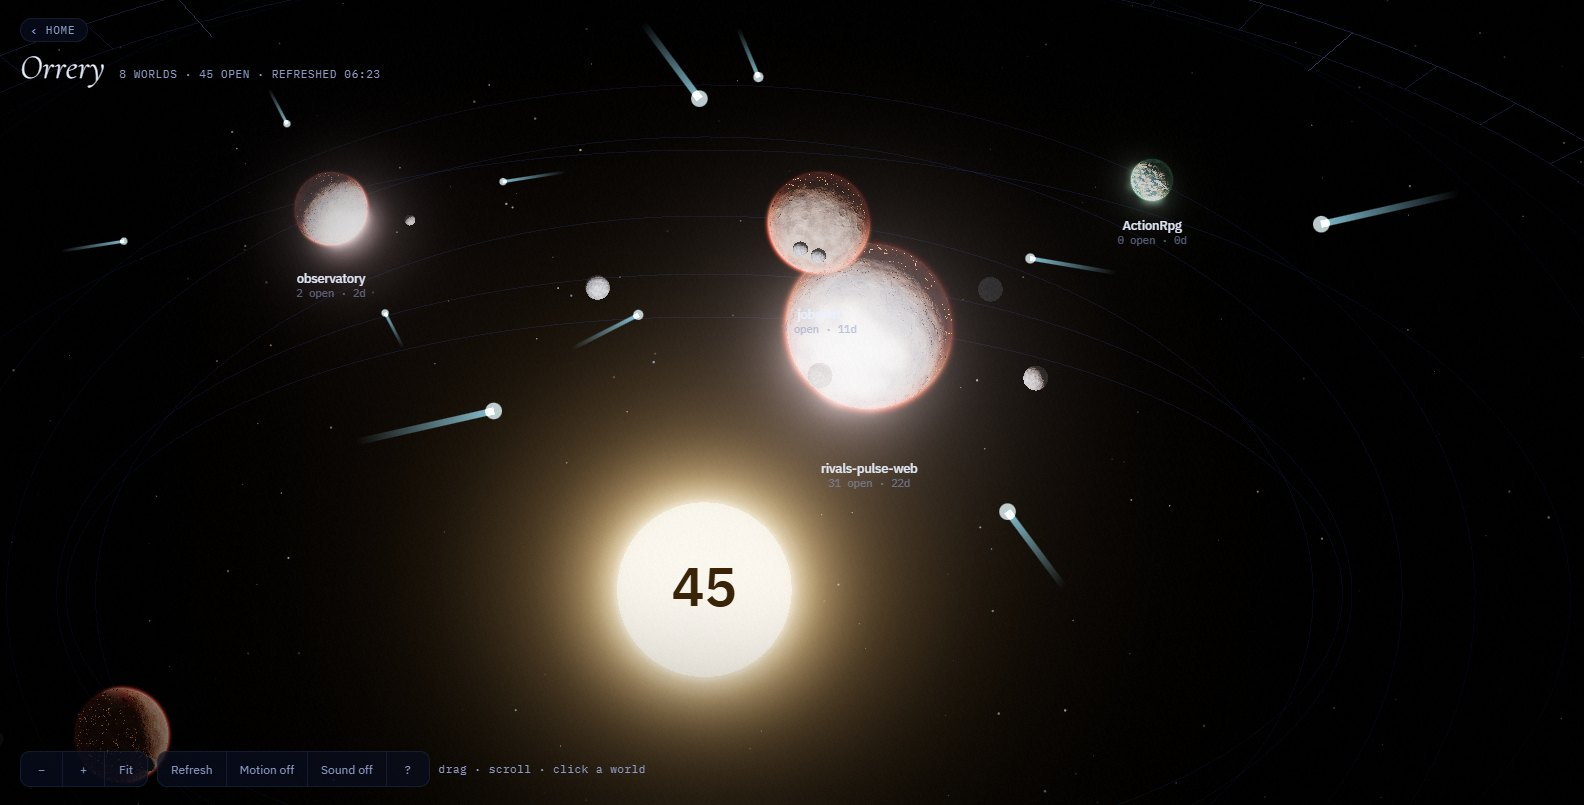
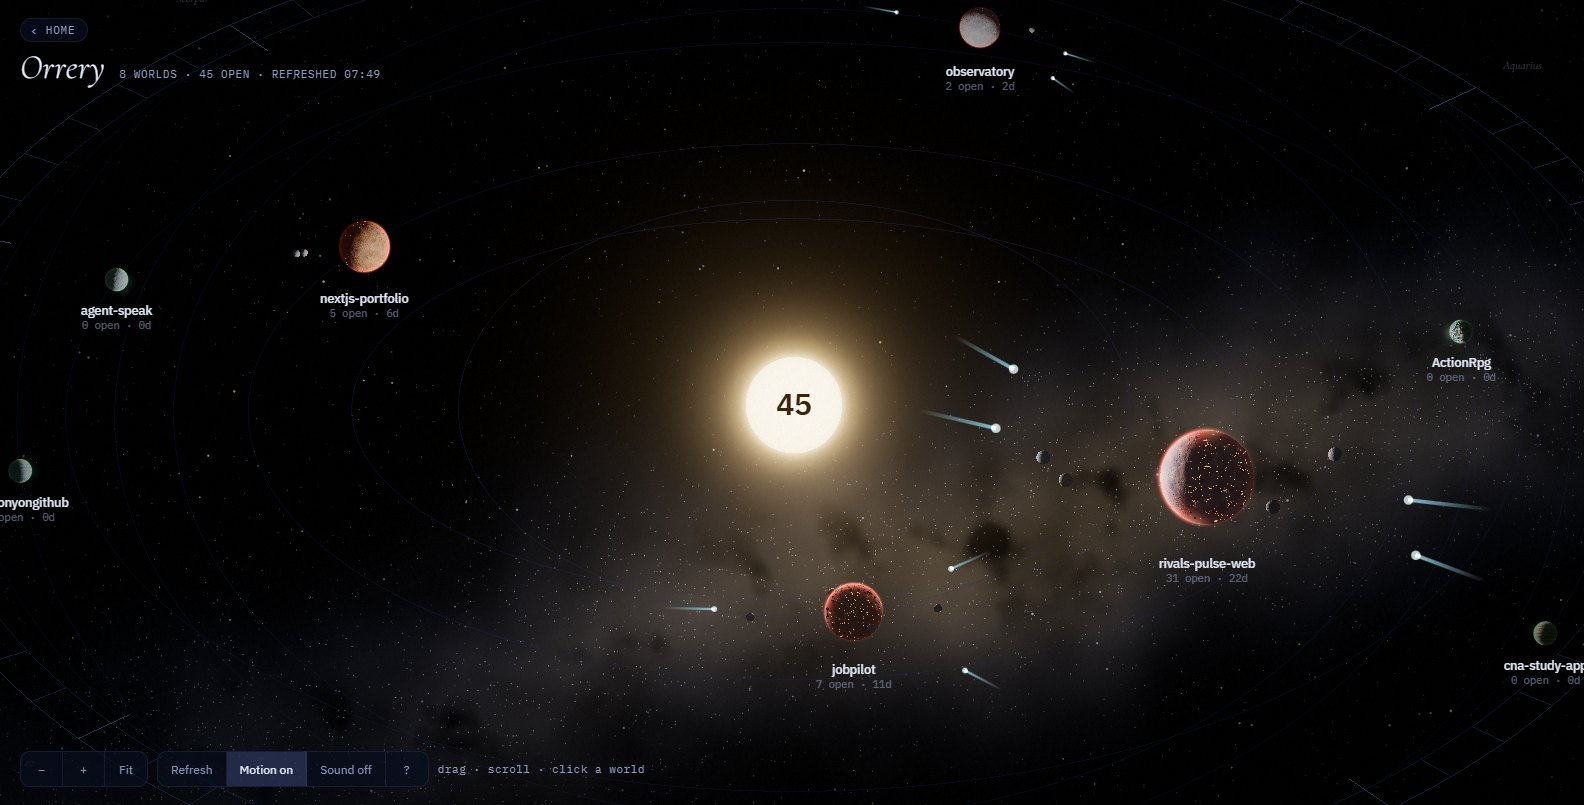
docs(readme): retake the Orrery screenshots
The Orrery's images now show the darker worlds (#395), clear lanes (#396)
and the Milky Way (#400), from the live app with public repositories only.

Closes #401

diff --git a/README.md b/README.md
@@ -32,8 +32,8 @@ kept the same for each project on every load. Each page's help card (press
 **The Orrery**: one world per project you own.
 
 <table><tr>
-<td><img src="docs/images/orrery-overview.jpg" alt="The Orrery: eight project worlds orbiting a sun labelled 45, the open pull request count, inside a dial of constellation names"></td>
-<td><img src="docs/images/orrery-close-up.jpg" alt="The Orrery zoomed in: lit worlds with moons, the sun, and comets for unclaimed issues"></td>
+<td><img src="docs/images/orrery-overview.jpg" alt="The Orrery: eight project worlds on separate orbits round a sun labelled 45, the open pull request count, inside a dial of constellation names, over a band of the Milky Way"></td>
+<td><img src="docs/images/orrery-close-up.jpg" alt="The Orrery zoomed in: lit worlds with moons, two with glowing fissures for failing checks, the sun, and comets for unclaimed issues, over the Milky Way"></td>
 </tr></table>
 
 - **Air colour** is the project's most urgent state; a bigger world has more
